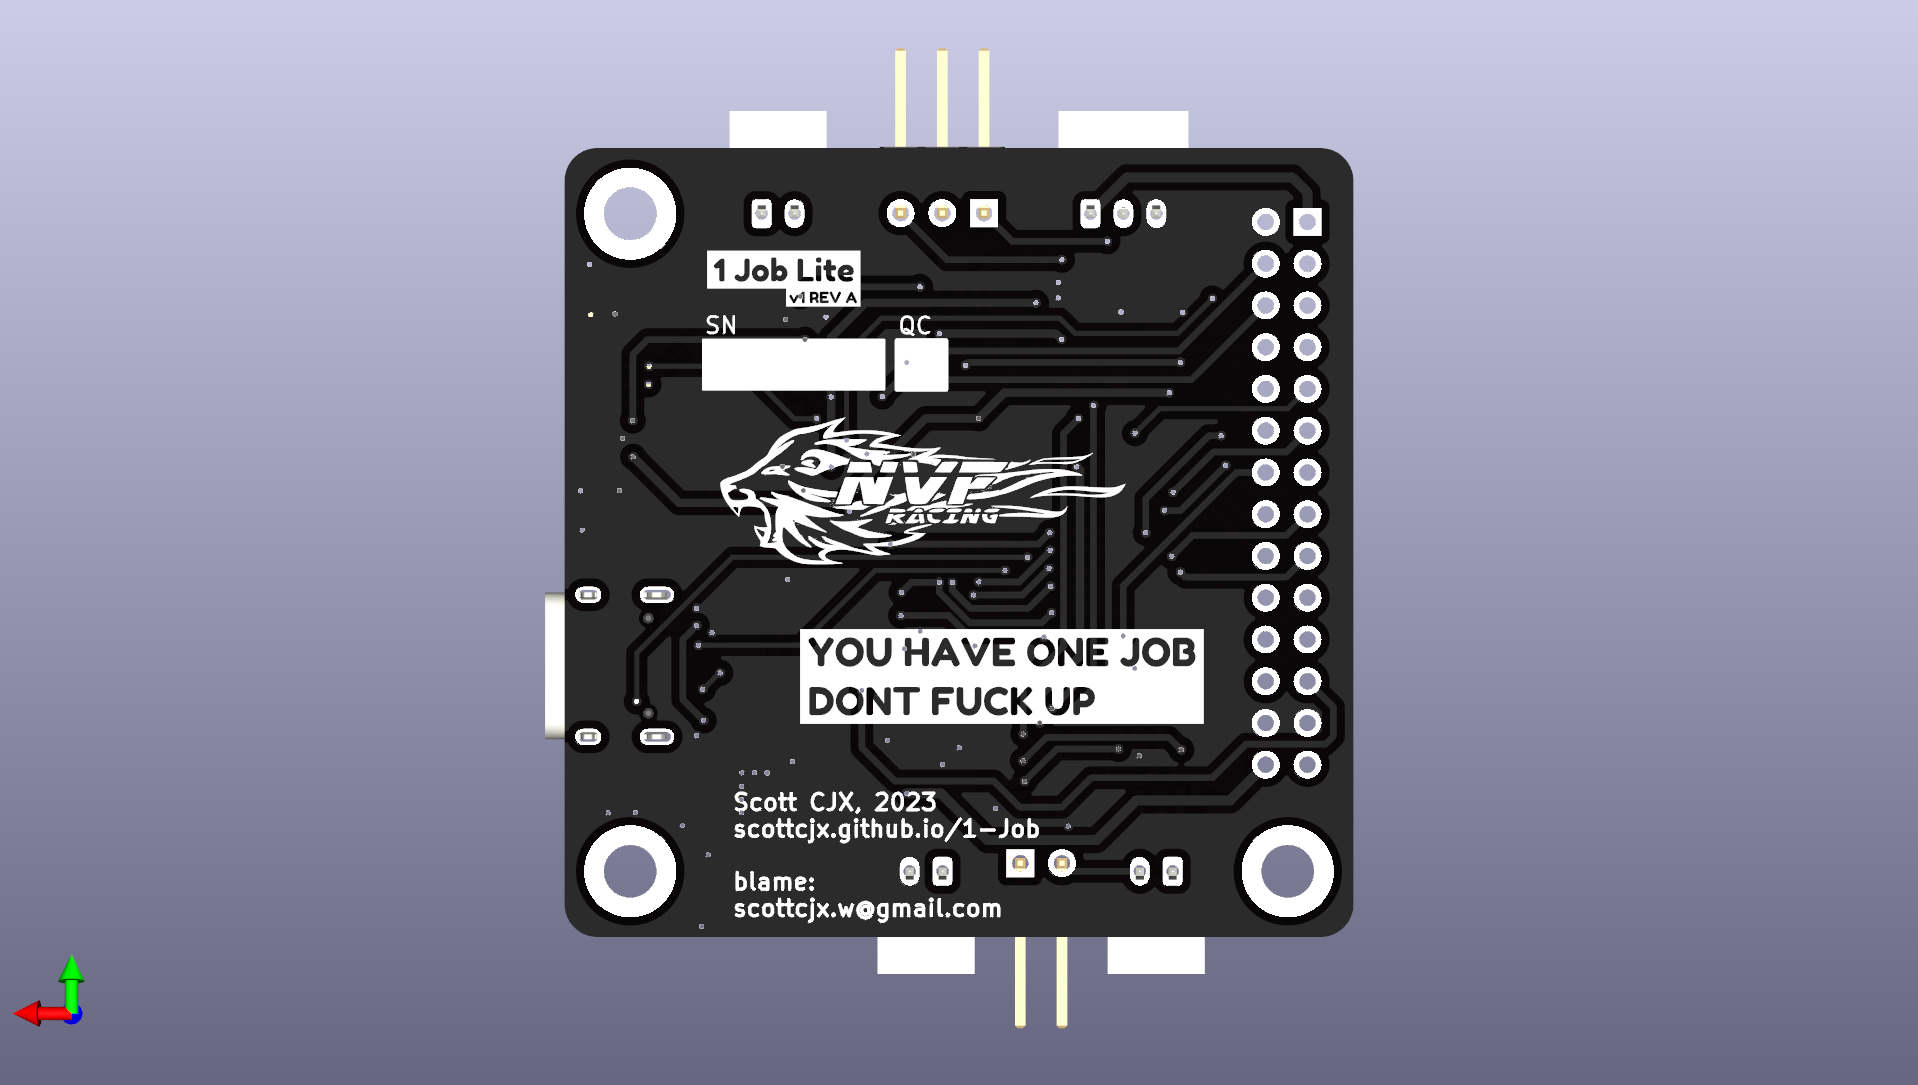
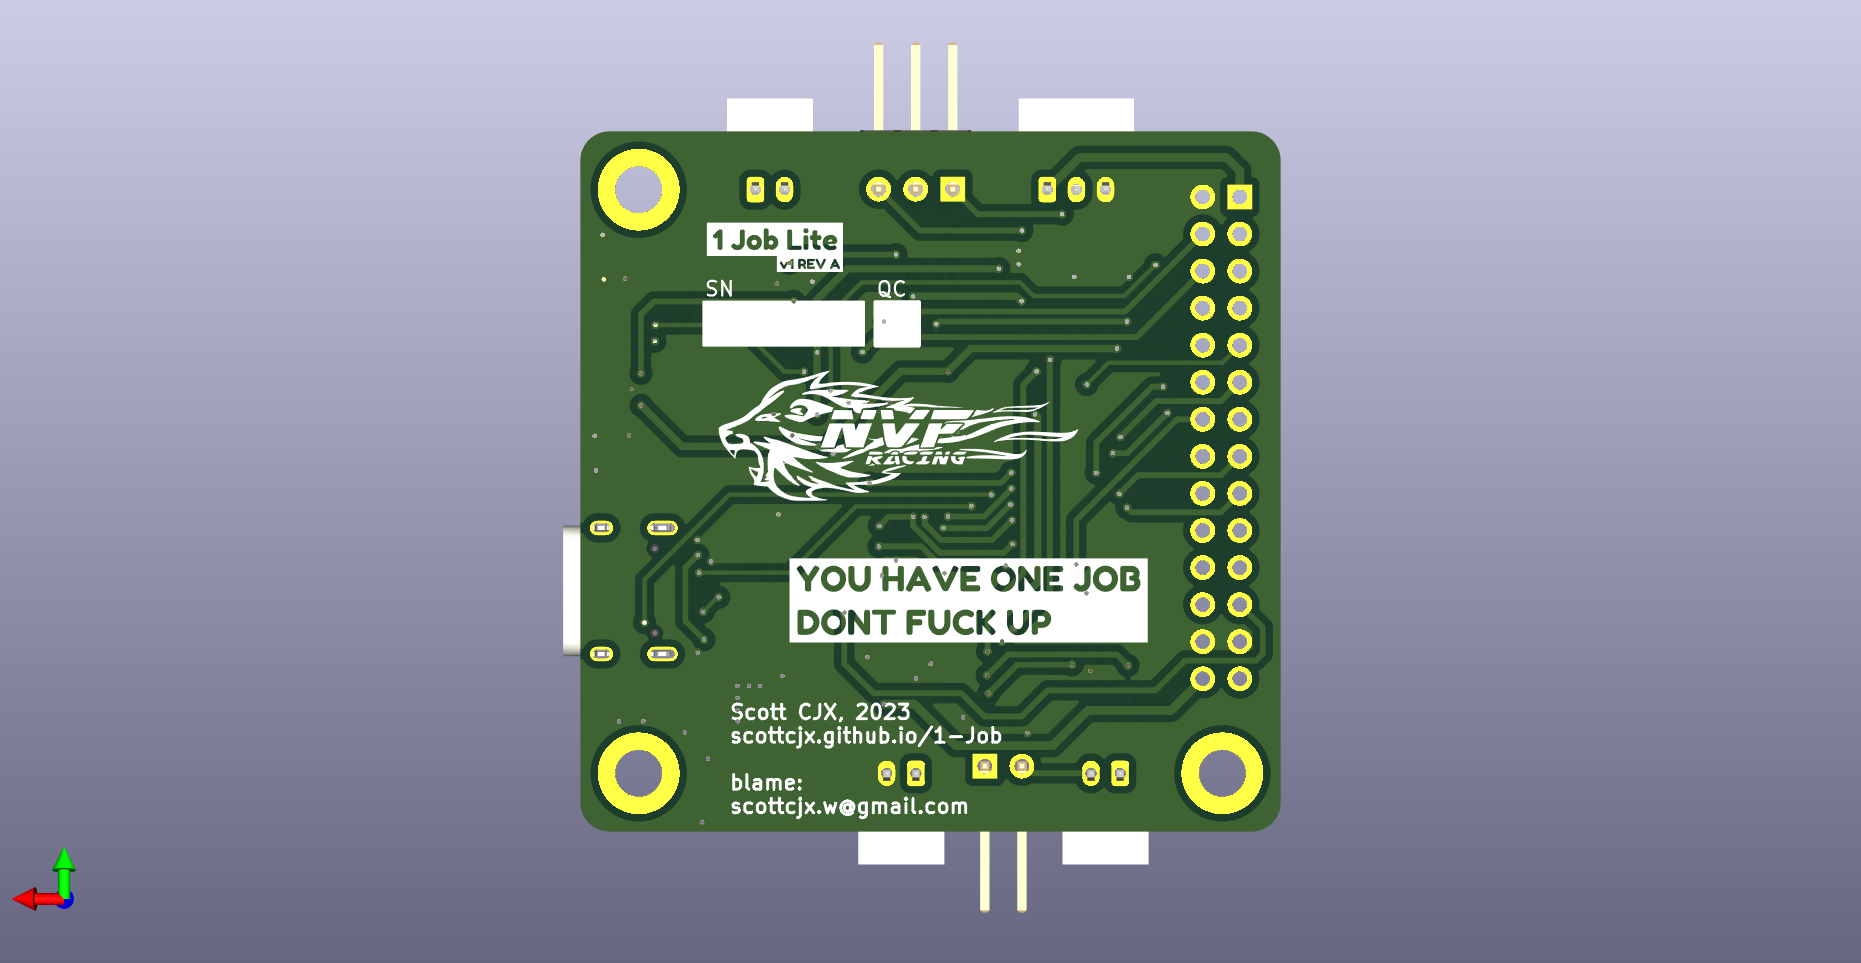
updated renders

Changed region(s): [[0.2805, 0.0312, 0.7168, 0.9657], [0.0312, 0.8723, 0.0623, 0.9346]]

diff --git a/docs/README.md b/docs/README.md
@@ -2,7 +2,7 @@
 
 `1 Job` is a Custom Designed PCB by [Scott CJX](https://scott-cjx.github.io) for [Nanyang Venture Formula NVF](https://nanyang-venture-formula.github.io/). Since its designer is a software person, `1 Job` is created to follow the principle of programming, having only `1 Job`.
 
-![img-1-job-pcb](./rsc/img-1-job-pcb.png)
+![img-1-job-pcb](./rsc/1Job-O-E.png)
 
 As this PCB is designed to have `1 Job`, you may then wonder what is that `1 Job`. Well it is meant to be one of many nodes in a CanBus network. Its job is to act as either an [Input](#input) or [Output](#output) node. More will be explained.
 
@@ -49,10 +49,6 @@ flowchart TD
 
 ## Preview
 
-![img-1job-f](./rsc/1Job-F.png)
+![img-1job-f](./rsc/1Job-F-E.png)
 
-1-Job-Lite Front
-
-![img-1job-b](./rsc/1Job-B.png)
-
-1-Job-Lite Back
+![img-1job-b](./rsc/1Job-B-E.png)
